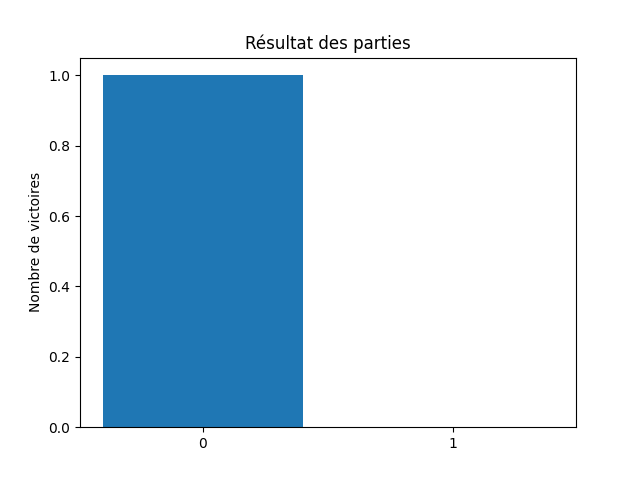
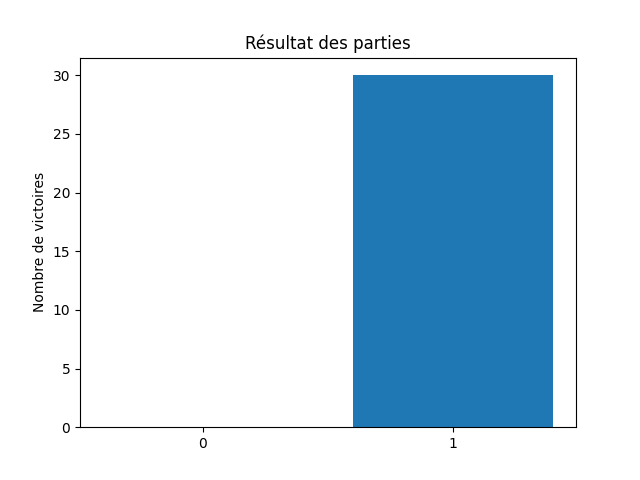
PARFAITTTTTT

diff --git a/src/main.py b/src/main.py
@@ -567,21 +567,23 @@ def main(str1, str2):
                 objectifs[player] = obj
         return path_init
     
-    def decision_minimax(player,positions,Wall_curr,horizon):
+    def decision_minimax(player,positions,Wall_curr,Walls_used,horizon):
         list_murs=choisir_les_murs(player,positions)
         meilleur_score=-1000
         meilleur_coup=draw_random_wall_location(player,posPlayers)
         for i in range(0,len(list_murs)):
+            nouv_Walls_used=Walls_used[:]
+            nouv_Walls_used[player]=nouv_Walls_used[player]+2
             nouv_Wall_Curr=Wall_curr[:]
             nouv_Wall_Curr.append(list_murs[i][0])
             nouv_Wall_Curr.append(list_murs[i][1])
-            score_eval=minimax_placer_murs(player,positions,nouv_Wall_Curr,horizon)
+            score_eval=minimax_placer_murs(player,positions,nouv_Wall_Curr,nouv_Walls_used,horizon)
             if score_eval>meilleur_score:
                 meilleur_coup=(list_murs[i][0],list_murs[i][1])
 
         return meilleur_coup
 
-    def minimax_placer_murs(player,positions,Wall_curr,horizon):
+    def minimax_placer_murs(player,positions,Wall_curr,Walls_used,horizon):
         lng_joueur=len(calcul_path_A_star_Mininimax(player,posPlayers,Wall_curr))
         lng_adv=len(calcul_path_A_star_Mininimax(1 - player,posPlayers,Wall_curr))
         if horizon==1:
@@ -590,10 +592,15 @@ def main(str1, str2):
             list_murs=choisir_les_murs(player,positions)
             val=-1000
             for mur in list_murs:
+                nouv_Walls_used=Walls_used[:]
+                nouv_Walls_used[player]=nouv_Walls_used[player]+2
+                if nouv_Walls_used[player]>10:
+                    val=lng_adv-lng_joueur
+                    break
                 nouv_Wall_Curr=Wall_curr[:]
                 nouv_Wall_Curr.append(mur[0])
                 nouv_Wall_Curr.append(mur[1])
-                val=max(val,minimax_placer_murs(player,positions,nouv_Wall_Curr,horizon-1))
+                val=max(val,minimax_placer_murs(player,positions,nouv_Wall_Curr,nouv_Walls_used,horizon-1))
             
             return val
         
@@ -601,10 +608,15 @@ def main(str1, str2):
             list_murs=choisir_les_murs(1-player,positions)
             val=1000
             for mur in list_murs:
+                nouv_Walls_used=Walls_used[:]
+                nouv_Walls_used[1-player]=nouv_Walls_used[1-player]+2
+                if nouv_Walls_used[1-player]>10:
+                    val=lng_adv-lng_joueur
+                    break
                 nouv_Wall_Curr=Wall_curr[:]
                 nouv_Wall_Curr.append(mur[0])
                 nouv_Wall_Curr.append(mur[1])
-                val=min(val,minimax_placer_murs(player,positions,nouv_Wall_Curr,horizon-1))
+                val=min(val,minimax_placer_murs(player,positions,nouv_Wall_Curr,nouv_Walls_used,horizon-1))
             
             return val
 
@@ -637,7 +649,7 @@ def main(str1, str2):
             else:
                 wall_to_remplir=walls_used[player]
                 #wall_curr=wallStates(allWalls)
-                ((x1,y1),(x2,y2)) = decision_minimax(player,posPlayers,wall_curr,horizon)
+                ((x1,y1),(x2,y2)) = decision_minimax(player,posPlayers,wall_curr,walls_used[:],horizon)
                 walls[player][wall_to_remplir].set_rowcol(x1,y1)
                 walls[player][wall_to_remplir+1].set_rowcol(x2,y2)
                 walls_used[player]=walls_used[player]+2
@@ -659,7 +671,7 @@ def main(str1, str2):
     
 
     ###################################################################################################################
-    def decision_alpha_beta(player,positions,Wall_curr,horizon):
+    def decision_alpha_beta(player,positions,Wall_curr,Walls_used,horizon):
         list_murs=choisir_les_murs(player,positions)
         meilleur_score=-1000
         meilleur_coup=draw_random_wall_location(player,posPlayers)
@@ -667,17 +679,21 @@ def main(str1, str2):
             nouv_Wall_Curr=Wall_curr[:]
             nouv_Wall_Curr.append(list_murs[i][0])
             nouv_Wall_Curr.append(list_murs[i][1])
-            score_eval=alpha_beta_placer_murs(player,positions,nouv_Wall_Curr,horizon)
+            nouv_Walls_used=Walls_used[:]
+            nouv_Walls_used[player]=nouv_Walls_used[player]+2
+            score_eval=alpha_beta_placer_murs(player,positions,nouv_Wall_Curr,nouv_Walls_used,horizon)
             if score_eval>meilleur_score:
                 meilleur_coup=(list_murs[i][0],list_murs[i][1])
 
         return meilleur_coup
 
-    def alpha_beta_placer_murs(player,positions,Wall_curr,horizon,alpha=-1000,beta=1000):
+    def alpha_beta_placer_murs(player,positions,Wall_curr,Walls_used,horizon,alpha=-1000,beta=1000):
         lng_joueur=len(calcul_path_A_star_Mininimax(player,posPlayers,Wall_curr))
         lng_adv=len(calcul_path_A_star_Mininimax(1 - player,posPlayers,Wall_curr))
         if horizon==1:
             return lng_adv-lng_joueur
+        
+        nouv_Walls_used=Walls_used[:]
         
         if horizon%2==1:
             val=-1000
@@ -686,7 +702,11 @@ def main(str1, str2):
                 nouv_Wall_Curr=Wall_curr[:]
                 nouv_Wall_Curr.append(mur[0])
                 nouv_Wall_Curr.append(mur[1])
-                val=max(val,alpha_beta_placer_murs(player,positions,nouv_Wall_Curr,horizon-1,alpha,beta))
+                nouv_Walls_used[player]=nouv_Walls_used[player]+2
+                if nouv_Walls_used[player]>10:
+                    val=lng_adv-lng_joueur
+                    break
+                val=max(val,alpha_beta_placer_murs(player,positions,nouv_Wall_Curr,nouv_Walls_used,horizon-1,alpha,beta))
                 if val >=beta:
                     break
                 alpha=max(alpha,val)
@@ -700,7 +720,11 @@ def main(str1, str2):
                 nouv_Wall_Curr=Wall_curr[:]
                 nouv_Wall_Curr.append(mur[0])
                 nouv_Wall_Curr.append(mur[1])
-                val=min(val,alpha_beta_placer_murs(player,positions,nouv_Wall_Curr,horizon-1,alpha,beta))
+                nouv_Walls_used[1-player]=nouv_Walls_used[1-player]+2
+                if nouv_Walls_used[1-player]>10:
+                    val=lng_adv-lng_joueur
+                    break
+                val=min(val,alpha_beta_placer_murs(player,positions,nouv_Wall_Curr,nouv_Walls_used,horizon-1,alpha,beta))
                 if val <=alpha:
                     break
                 beta=min(beta,val)
@@ -736,7 +760,7 @@ def main(str1, str2):
             else:
                 wall_to_remplir=walls_used[player]
                 #wall_curr=wallStates(allWalls)
-                ((x1,y1),(x2,y2)) = decision_alpha_beta(player,posPlayers,wall_curr,horizon)
+                ((x1,y1),(x2,y2)) = decision_alpha_beta(player,posPlayers,wall_curr,walls_used[:],horizon)
                 walls[player][wall_to_remplir].set_rowcol(x1,y1)
                 walls[player][wall_to_remplir+1].set_rowcol(x2,y2)
                 walls_used[player]=walls_used[player]+2
@@ -764,13 +788,13 @@ def main(str1, str2):
             for j in range(cMin,cMax):
                 voisins=[(0,1),(0,-1),(1,0),(-1,0)]
                 for v in voisins:
-                    if legal_wall_position((i,j), player, positions,murs_actuel[:]):
-                        murs_actuel.append((i,j))
-                        if legal_wall_position((v[0]+i,v[1]+j), player, positions,murs_actuel[:]):
+                    if legal_wall_position((i,j), player, positions,copy_murs_actuel):
+                        copy_murs_actuel.append((i,j))
+                        if legal_wall_position((v[0]+i,v[1]+j), player, positions,copy_murs_actuel):
                             if ((i,j),(i+v[0],j+v[1])) not in legal_walls and ((i+v[0],j+v[1]),(i,j)) not in legal_walls :
                                 if(is_between(i,posPlayers[1-player][0],objectifs[1-player][0]) and is_between(j,posPlayers[1-player][1],objectifs[1-player][1])):
                                     legal_walls.append(((i,j),(i+v[0],j+v[1])))
-                murs_actuel=copy_murs_actuel[:]
+                copy_murs_actuel=murs_actuel[:]
         
         return legal_walls
     def jouer_aleatoire_monaco(player, walls_used,Murs,positions,joueurs):
@@ -783,7 +807,7 @@ def main(str1, str2):
                 choix_du_jouer=1
             else:
                 #wall_to_remplir=walls_used[player]
-                ((x1,y1),(x2,y2)) = draw_random_wall_location(player, posPlayers)
+                ((x1,y1),(x2,y2)) = draw_random_wall_location(player, positions)
                 #Murs[player][wall_to_remplir].set_rowcol(x1,y1)
                 Murs.append((x1,y1))
                 Murs.append((x2,y2))
@@ -800,9 +824,9 @@ def main(str1, str2):
             #joueurs[player].set_rowcol(row,col)
             #print ("pos joueur",player,":",row,col)
             if (row,col) == objectifs[player]:
-                return True, player
+                return True, player,positions
             
-        return False, player
+        return False, player,positions
     
 
     def decision_monaco(player,positions,Wall_curr,walls_used,horizon):
@@ -830,9 +854,9 @@ def main(str1, str2):
                     pos=posPlayers[:]
                     joueurs=players[:]
                     while(not fin):
-                        fin,gagnat=jouer_aleatoire_monaco(player,walls_used,Murs,pos,joueurs)
+                        fin,gagnat,pos=jouer_aleatoire_monaco(player,walls_used,Murs,pos,joueurs)
                         if not fin:
-                            fin,gagnat=jouer_aleatoire_monaco(1-player,walls_used,Murs,pos,joueurs)
+                            fin,gagnat,pos=jouer_aleatoire_monaco(1-player,walls_used,Murs,pos,joueurs)
                     if gagnat==player:
                         nbwin=nbwin+1
                 
@@ -846,9 +870,9 @@ def main(str1, str2):
                     pos=posPlayers[:]
                     joueurs=players[:]
                     while(not fin):
-                        fin,gagnat=jouer_aleatoire_monaco(1-player,walls_used,Murs,pos,joueurs)
+                        fin,gagnat,pos=jouer_aleatoire_monaco(1-player,walls_used,Murs,pos,joueurs)
                         if not fin:
-                            fin,gagnat=jouer_aleatoire_monaco(player,walls_used,Murs,pos,joueurs)
+                            fin,gagnat,pos=jouer_aleatoire_monaco(player,walls_used,Murs,pos,joueurs)
                     if gagnat==player:
                         nbwin=nbwin+1
                 
@@ -857,12 +881,12 @@ def main(str1, str2):
         
         if horizon%2==1:
             val=-1000
-            list_murs=choisir_les_murs_monaco(player,positions,Wall_curr[:])
+            list_murs=choisir_les_murs_monaco(player,positions,Wall_curr)
             for mur in list_murs:
                 nouv_Wall_Curr=Wall_curr[:]
                 nouv_Wall_Curr.append(mur[0])
                 nouv_Wall_Curr.append(mur[1])
-                val=max(val,monaco_placer_murs(player,positions,nouv_Wall_Curr,horizon-1,horizon_init,alpha,beta))
+                val=max(val,monaco_placer_murs(player,positions,nouv_Wall_Curr,walls_used,horizon-1,horizon_init,alpha,beta))
                 if val >=beta:
                     break
                 alpha=max(alpha,val)
@@ -871,12 +895,13 @@ def main(str1, str2):
         
         if horizon%2==0:
             val=1000
-            list_murs=choisir_les_murs_monaco(1-player,positions,Wall_curr[:])
+            list_murs=choisir_les_murs_monaco(1-player,positions,Wall_curr)
             for mur in list_murs:
                 nouv_Wall_Curr=Wall_curr[:]
                 nouv_Wall_Curr.append(mur[0])
                 nouv_Wall_Curr.append(mur[1])
-                val=min(val,monaco_placer_murs(player,positions,nouv_Wall_Curr,horizon-1,horizon_init,alpha,beta))
+                #print(horizon)
+                val=min(val,monaco_placer_murs(player,positions,nouv_Wall_Curr,walls_used,horizon-1,horizon_init,alpha,beta))
                 if val <=alpha:
                     break
                 beta=min(beta,val)
@@ -945,7 +970,7 @@ def main(str1, str2):
         elif strategy == 'Strat 6':
             return jouer_alpha_beta(player, walls_used,4)
         else:
-            return jouer_monaco(player, walls_used,1)
+            return jouer_monaco(player, walls_used,4)
         
         
             
@@ -997,7 +1022,7 @@ if __name__ == '__main__':
     for i in range(0,int(itr)):
          gagnat.append(main(str1,str2))
     count = Counter(gagnat)
-    print(gagnat)
+    #print(gagnat)
     most_common_element = count.most_common(1)[0][0]
     cpt=count.most_common(1)[0][1]
     print("Le gagnant de partie est ",most_common_element)
